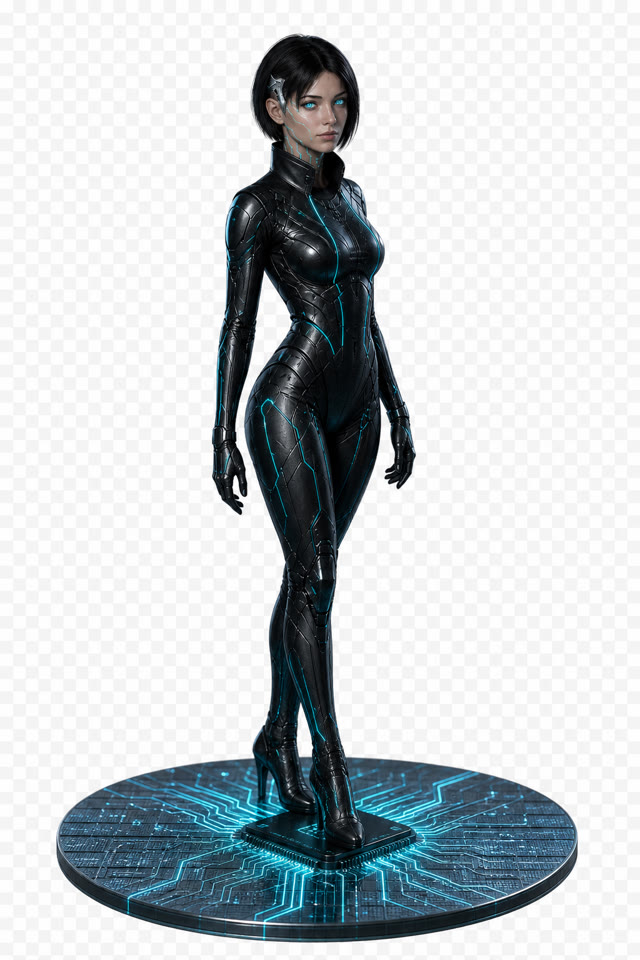
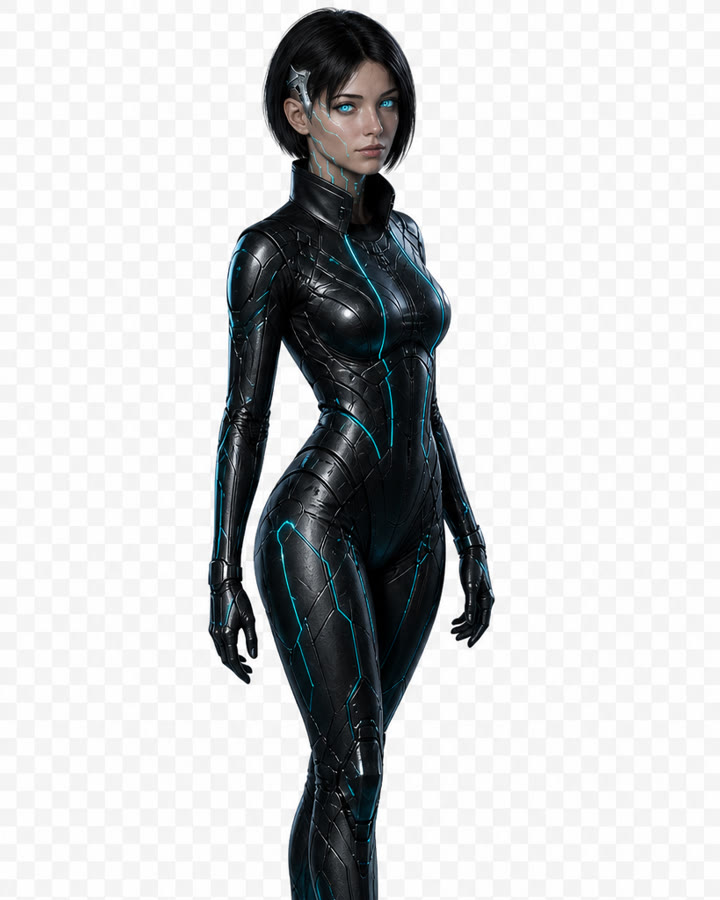
fix(aimon): full-bleed Gera cover on overview AI card
Remove header labels and overlays; fill the frame with a close-up
cover image and keep a single bottom button labeled AI ассистент.

Changed region(s): [[0.0625, 0.0, 0.9062, 1.0]]

diff --git a/aimon/dashboard/index.html b/aimon/dashboard/index.html
@@ -6,7 +6,7 @@
   <meta name="theme-color" content="#FAF8F5">
   <title>AIMon — AI-мониторинг</title>
   <meta name="description" content="AIMon — мониторинг инфраструктуры на базе Checkmk с AI-ассистентом">
-  <link rel="stylesheet" href="styles.css?v=gera4">
+  <link rel="stylesheet" href="styles.css?v=gera5">
 </head>
 <body>
   <svg class="sprite" aria-hidden="true">
@@ -148,22 +148,21 @@
             </section>
 
             <section class="card ai-card">
-              <div class="card-head"><h2>Гера</h2><span class="badge">AI-ассистент</span></div>
-              <div class="gera-overview" data-goto="assistant" role="button" tabindex="0" title="Открыть чат с Герой">
-                <picture>
+              <div class="gera-overview" data-goto="assistant" role="button" tabindex="0" title="AI ассистент">
+                <picture class="gera-overview-bg">
                   <source srcset="assets/gera-overview.webp" type="image/webp">
                   <img
                     class="gera-overview-img"
                     src="assets/gera-overview.jpg"
-                    alt="Гера — AI-ассистент AIMon"
-                    width="600"
+                    alt="Гера"
+                    width="720"
                     height="900"
                     loading="lazy"
                     decoding="async"
                   >
                 </picture>
-                <div class="gera mini gera-overview-status" data-state="idle" id="geraMini" aria-hidden="true">
-                  <div class="gera-rings"><span></span><span></span><span></span></div>
+                <!-- hidden media for idle/thinking state sync -->
+                <div class="gera mini visually-hidden" data-state="idle" id="geraMini" aria-hidden="true">
                   <div class="gera-face">
                     <video class="gera-vid idle" poster="assets/gera-idle.jpg" muted loop playsinline autoplay preload="metadata">
                       <source src="assets/gera-idle.webm" type="video/webm">
@@ -175,10 +174,8 @@
                     </video>
                   </div>
                 </div>
-                <span class="gera-overview-caption" id="geraOverviewStatus">Жду команду</span>
               </div>
-              <p class="ai-hint">Гера ждёт команду: «добавь микротик 10.0.0.1», «что сломалось», «типы устройств».</p>
-              <button class="btn primary wide" data-goto="assistant">Открыть чат с Герой</button>
+              <button class="btn primary wide" data-goto="assistant">AI ассистент</button>
             </section>
           </div>
         </section>
@@ -516,6 +513,6 @@
     </form>
   </dialog>
 
-  <script src="app.js?v=gera4"></script>
+  <script src="app.js?v=gera5"></script>
 </body>
 </html>

diff --git a/aimon/dashboard/styles.css b/aimon/dashboard/styles.css
@@ -227,64 +227,55 @@ svg { width: 20px; height: 20px; fill: none; stroke: currentColor; stroke-width:
 .secret small { color: var(--ink-soft); font-size: 13px; }
 
 /* AI orb */
-.ai-card { display: flex; flex-direction: column; }
+.ai-card {
+  display: flex;
+  flex-direction: column;
+  gap: 12px;
+  padding: 12px;
+  overflow: hidden;
+}
 .ai-hint { color: var(--ink-soft); font-size: 15px; margin: 10px 0 16px; }
 
 .gera-overview {
   position: relative;
-  display: grid;
-  place-items: end center;
-  min-height: 280px;
-  margin: 4px 0 8px;
-  border-radius: 16px;
+  flex: 1 1 auto;
+  min-height: 340px;
+  border-radius: 14px;
   overflow: hidden;
   cursor: pointer;
-  background:
-    radial-gradient(ellipse 70% 45% at 50% 88%, rgba(61, 184, 197, 0.22), transparent 70%),
-    linear-gradient(180deg, #12181d 0%, #0a0e12 100%);
-  box-shadow: inset 0 0 0 1px rgba(61, 184, 197, 0.18);
+  background: #0a0e12;
 }
 .gera-overview:focus-visible {
   outline: 2px solid var(--indigo-2);
   outline-offset: 2px;
 }
-.gera-overview picture,
-.gera-overview-img {
+.gera-overview-bg {
+  position: absolute;
+  inset: 0;
   display: block;
-  width: min(220px, 72%);
-  height: auto;
-  margin: 12px auto 0;
-  object-fit: contain;
-  filter: drop-shadow(0 12px 28px rgba(0, 0, 0, 0.45));
-  transition: transform .35s ease;
 }
-.gera-overview:hover .gera-overview-img { transform: translateY(-4px); }
-.gera-overview-status {
+.gera-overview-img {
+  width: 100%;
+  height: 100%;
+  object-fit: cover;
+  object-position: center 18%;
+  display: block;
+  transition: transform .45s ease;
+}
+.gera-overview:hover .gera-overview-img { transform: scale(1.03); }
+.gera-overview::after {
+  content: "";
   position: absolute;
-  left: 12px;
-  top: 12px;
-  margin: 0;
-  transform: scale(0.72);
-  transform-origin: top left;
+  inset: 0;
+  pointer-events: none;
+  background: linear-gradient(180deg, transparent 55%, rgba(10, 14, 18, 0.35) 100%);
 }
-.gera-overview-caption {
-  position: absolute;
-  right: 14px;
-  bottom: 12px;
-  padding: 6px 10px;
-  border-radius: 999px;
-  background: rgba(10, 14, 18, 0.72);
-  color: #c9eef2;
-  font-size: 12.5px;
-  font-weight: 600;
-  letter-spacing: 0.02em;
-  backdrop-filter: blur(6px);
-}
-.ai-card[data-state="thinking"] .gera-overview,
-.gera-overview:has(.gera[data-state="thinking"]) {
-  box-shadow:
-    inset 0 0 0 1px rgba(122, 212, 222, 0.35),
-    0 0 24px rgba(61, 184, 197, 0.18);
+.visually-hidden {
+  position: absolute !important;
+  width: 1px; height: 1px;
+  padding: 0; margin: -1px;
+  overflow: hidden; clip: rect(0, 0, 0, 0);
+  white-space: nowrap; border: 0;
 }
 
 /* Gera — cybernoid assistant */

diff --git a/aimon/dashboard/app.js b/aimon/dashboard/app.js
@@ -825,8 +825,6 @@
     });
     const status = $('#geraStatus');
     if (status) status.textContent = next === 'thinking' ? 'Думаю…' : 'Жду команду';
-    const ovStatus = $('#geraOverviewStatus');
-    if (ovStatus) ovStatus.textContent = next === 'thinking' ? 'Думаю…' : 'Жду команду';
     const fab = $('#aiFab');
     if (fab) {
       fab.classList.toggle('thinking', next === 'thinking');
